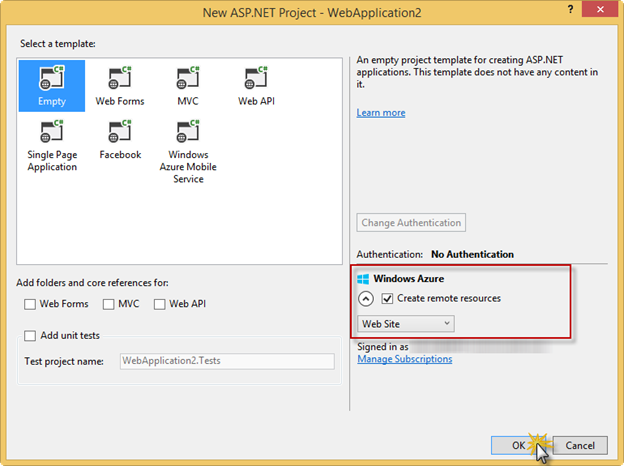
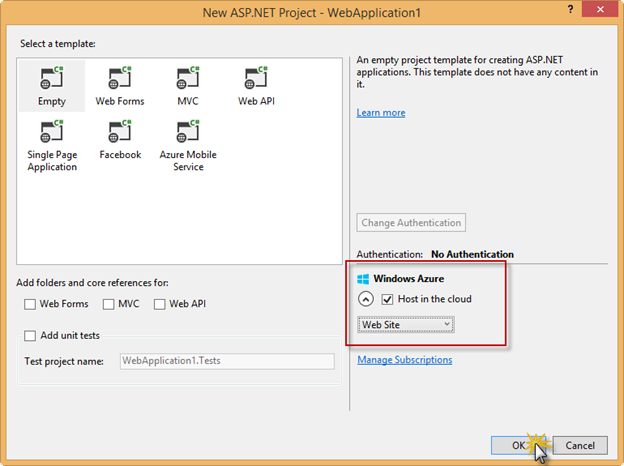
[ClipMeme] Updated screenshots and fixed bugs in the document. Improved texts.

diff --git a/Demos/Demo-ClipMeme/source/code/begin/ClipMeme/ClipMeme/Scripts/app/controllers/modal.js b/Demos/Demo-ClipMeme/source/code/begin/ClipMeme/ClipMeme/Scripts/app/controllers/modal.js
@@ -107,6 +107,8 @@
                     scope.$apply();
                 }
             }
+			
+			// End refactor to a directive
         };
 
         function closeModal() {

diff --git a/Demos/Demo-ClipMeme/demo.md b/Demos/Demo-ClipMeme/demo.md
@@ -3,7 +3,7 @@
 
 ## Overview ##
 
-In this demo, we will showcase the Visual studio and azure VM and Web Site provisioning features, **PowerShell** script generation and editing to provision multiple geographic deployments using Traffic Manager, and background services using both VM’s and Web Jobs. It also reinforces our momentum with Visual Studio (with Web Essentials) as a great tool for creating powerful **HTML5** applications backed by **ASP.NET**.
+In this demo, we will showcase **Visual Studio** provisioning features to deploy **Azure Virtual Machines** and **Web Sites**, along with **PowerShell** script generation and editing to provision multiple geographic deployments using **Traffic Manager**, and background services using Web Jobs. It also reinforces our momentum with **Visual Studio** (using **Web Essentials**) as a great tool for creating powerful **HTML5** applications backed by **ASP.NET**.
 
 <a name="Goals" />
 ### Goals ###
@@ -62,12 +62,18 @@ In this demo, you will see how to:
 1. Save the file and close the editor.
 
 1. Run **Reset.cmd** using elevated permissions.
+
+	> **Note:** It might take a few minutes to provision all the resources in Azure.
 	
 ##### First Run  #####
 
-1. Go to your working directory (if you left the default value, the directory is **C:\Demos\Source**) and open the **ClipMeme** solution.
+1. Go to your working directory (if you kept the default value, the directory is **C:\Demos\Source**) and open the **ClipMeme** solution.
 
-1. Build the solution to install all the NuGet packages. Keep this Visual Studio instance open as you will use it in the demo.
+1. Build the solution to install all the NuGet packages. Keep this Visual Studio instance open as you will use it in the demo, and open a new instance without selecting a solution. You will start the demo using this instance.
+
+1. Run without debugging (CTRL + F5) using Internet Explorer. Then switch back to Visual Studio, change the default browser to Google Chrome and again run without debugging. You will end up with 2 browsers showing ClipMeme. You will use them in Segment 2.
+
+	![Changing the browser to Chrome](Images/changing-the-browser-to-chrome.png?raw=true)
 
 ## Demo ##
 
@@ -92,11 +98,11 @@ This demo is composed of the following segments:
 
 	![New ASP .NET Web Application](Images/new-asp-net-web-application.png?raw=true)
 
-1. Select **Empty** template and check **Create remote resources** checkbox. Click **OK**.
+1. Select **Empty** template and check **Host in the cloud** checkbox. Click **OK**.
 
 	> **Speaking Point:** As a new thing, as you can see, we made it really easy for you to provision both **Azure Web Sites** and **Virtual Machines** directly from this dialog. 
-	
-	![Web Site Empty Template](Images/web-site-empty-template.png?raw=true)
+
+	![Web Site Empty Template](Images/web-site-empty-template.png?raw=true)	
 
 2. Select **Create new server**. Provide **Database Username** and **Database Password**. Click **OK**.
 
@@ -120,7 +126,7 @@ This demo is composed of the following segments:
 
 	> **Speaking Point:** One neat feature is the context menu for PowerShell. If you Right-click on the PS1 file, you will notice the new context menu ‘Open with PowerShell ISE, which allows you to open a PowerShell editor straight from Visual Studio.
 	
-	![Open with PowerShell ISE](Images/open-with-powershell-ise.png?raw=true)
+	![Open with PowerShell ISE](Images/open-with-powershell-ise.png?raw=true)	
 
 <a name="segment2" />
 ### Web Essentials Features ###
@@ -134,7 +140,9 @@ This demo is composed of the following segments:
 <a name="browserlink-features" />
 #### Task 1 - Browser link####
 
-1. Switch to the ClipMeme solution in **Visual Studio** and run the app.
+1. Switch to the ClipMeme solution in **Visual Studio** and show the solution.
+
+1. Go to Internet Explorer where ClipMeme is running.
 
 1. Place Visual Studio and Internet Explorer side by side.
 
@@ -146,13 +154,15 @@ This demo is composed of the following segments:
 	
 	_Internet Explorer - Inspect element_
 
+	> **Note:** Make sure the **DOM Explorer** is opened. You can press CTRL + 1 to activate it.
+	
 1. In the **DOM Explorer** select the **header** html tag
 	
 	![DOM Explorer - Header section](Images/dom-explorer---header-section.png?raw=true "DOM Explorer - Header section")
 	
 	_DOM Explorer - Header section_
 
-1. Press the **Ctrl** key in the browser to enable the **Web Essentials Browser Link Overlay**. 
+1. Press the **Ctrl** key in the browser to enable the **Web Essentials Browser Link Overlay**. If it is already opened, hover with your mouse over the panel.
 
 1. Click on **F12 Auto sync** from the Web Essentials toolbox in Internet Explorer to enable updating in the browser.
 
@@ -162,7 +172,7 @@ This demo is composed of the following segments:
 	
 1. In the **Styles** pane, scroll until you find the **.navbar-default** selector. 
 
-1. Double-click the **background-color** value and change it to a different color (e.g. cadetBlue). Show how the value is automatically updated in Visual Studio.
+1. Double-click the **background-color** value and change it to a different color (e.g. azure). Show how the value is automatically updated in Visual Studio when selecting different colors.
 
 	![Automatic update background color](Images/automatic-update-background-color.png?raw=true "Automatic update background color")
 
@@ -186,7 +196,7 @@ This demo is composed of the following segments:
 
 	>**Speaking Point**: Oops, it looks like there is a text error in the header - we repeated the word **and**. Let’s fix that. 
 	
-1. Press the **Ctrl** key in the browser to enable the **Web Essentials Browser Link Overlay**. 
+1. Press the **Ctrl** key in the browser to enable the **Web Essentials Browser Link Overlay** or hover the Web Essentials panel at the bottom of the browser.
 
 1. Click on the **Design** link to enable **Design mode**.
 	
@@ -244,9 +254,9 @@ This demo is composed of the following segments:
 	@import 'social.png.less';
 	````
  
-1. Within the same file modify the **.facebook** and **.twitter** classes by replacing the background-image style with the corresponding less function to retrieve the image sprite as shown below, and save the file.
+1. Within the same file modify the **.facebook** and **.twitter** classes by replacing the _background_ property with the corresponding less function to retrieve the image sprite as shown below, and save the file.
 
-	<!-- mark:1-11 -->
+	<!-- mark:2,8 -->
 	````CSS
 	.facebook {
 		.sprite-Content-share-facebook();
@@ -263,7 +273,7 @@ This demo is composed of the following segments:
 
 1. In Internet Explorer, open **Developer tools** and switch to the **Network** tab.
 
-1. Click on **Play** to start recording the network traffic and refresh the application.
+1. Click on **Play** to start recording the network traffic and refresh (**F5**) the application.
 
 1. Check there is a request to **/Content/Social.png**. Select it and click on **Details** to check the details of the request.
 
@@ -280,7 +290,7 @@ This demo is composed of the following segments:
 <a name="javascript-editing" />
 #### Task 3 - JavaScript and AngularJS editing ####
 
-1. Open the **/Scripts/app/controllers/modal.js** file.
+1. In Visual Studio, open the **/Scripts/app/controllers/modal.js** file.
 
 1. Place the cursor below the **cleanVariables();** line and start writing **$sc**. Show that there is IntelliSense for JavaScript and AngularJS.
 
@@ -323,7 +333,7 @@ This demo is composed of the following segments:
 
 	>**Note**: This sets us up with a basic directive with some best practices, like for instance it’s using Strict Mode. We’ve also got JsHint running in the background so it can catch some common JavaScript coding issues as we type, for instance if we try to reuse a function parameter name.
 	
-1. Add another parameter named **scope** to the end of the **link** function and show that **JsHint** flags it.
+1. Add another parameter named **scope** to the end of the **link** function and hover it to show that **JsHint** flags it as a _duplicated_ declaration.
 
 	![Duplicate parameter error](Images/duplicate-parameter-error.png?raw=true "Duplicate parameter error")
 	
@@ -331,9 +341,9 @@ This demo is composed of the following segments:
  
 1. Remove the **scope** parameter just added (it was simply to show the error).
 	
-1. Move the code from the **modal** controller to the directive you created; the code to move is highlighted with a comment that says **//TODO: refactor to a directive**. 
+1. Move the code from the **modal** controller to the directive you created, inside the **link** function; the code to move is highlighted with a comment that says **//Refactor to a directive** to another comment that says **// End refactor to a directive**. 
 
-1. Remove the **element** and **scope** variable in the controller to avoid JSHint issues.
+1. Remove the **element** and **scope** variable in the **modal** controller to avoid JSHint issues.
 	
 	![Removed variables from modal controller](Images/removed-variables-from-modal-controller.png?raw=true "Removed variables from modal controller")
 	
@@ -373,7 +383,6 @@ This demo is composed of the following segments:
 1. Select the **Staging** web site and click **OK**.
 
 1. In the **Connection** page, leave the imported values and click **Publish**. Wait until the publishing process completes.
-
 
 <a name="segment3" />
 ### Azure Web Jobs ###
